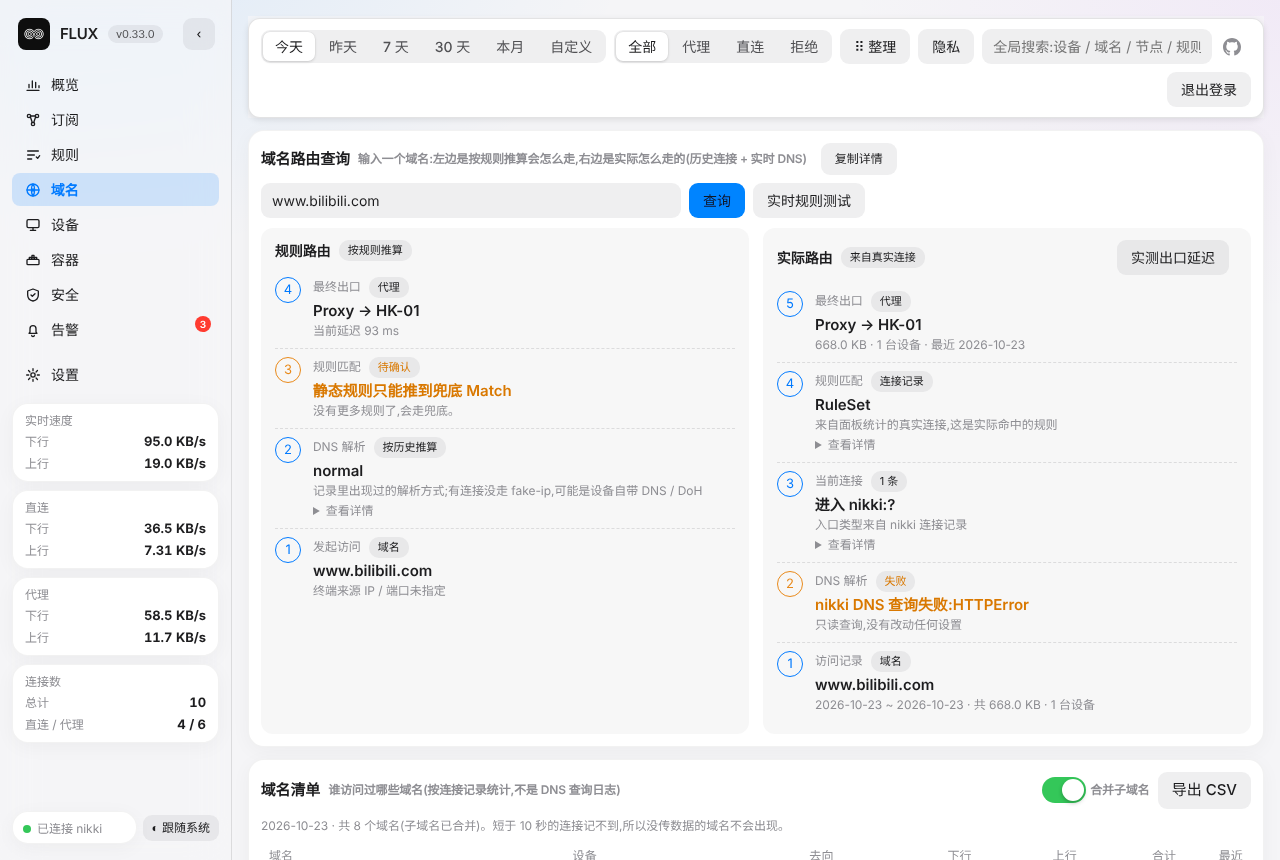
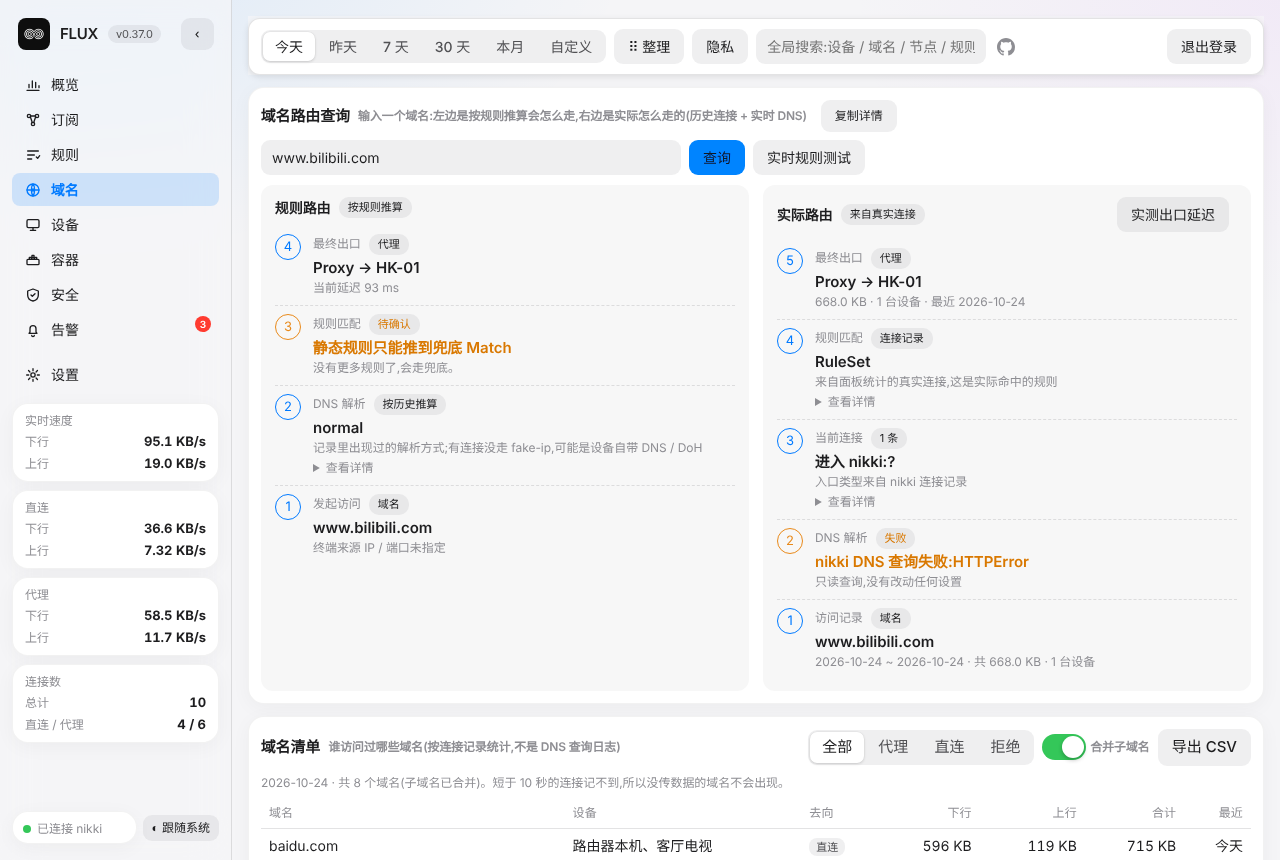
docs: README/FEATURES for v0.37 (security tabs, 状态 toggle, log clustering) and refreshed screenshots
Claude-Session: https://claude.ai/code/session_01GtGpDSTma1sKiSfQkHSTpF

diff --git a/tests/docshots.py b/tests/docshots.py
@@ -45,8 +45,10 @@ try:
             go("devices"); pg.screenshot(path=f"{OUT}/devices.png")
             go("rules"); pg.fill("#rtIn", "www.baidu.com"); pg.click("#rtGo"); pg.wait_for_timeout(3500); pg.screenshot(path=f"{OUT}/rules.png")
             go("domains"); pg.fill("#lkpIn", "www.bilibili.com"); pg.click("#lkpGo"); pg.wait_for_timeout(3500); pg.screenshot(path=f"{OUT}/lookup.png")
-            go("security"); pg.wait_for_timeout(2500); pg.screenshot(path=f"{OUT}/security.png")
-            pg.evaluate("window.scrollTo(0, 1500)"); pg.wait_for_timeout(1500); pg.screenshot(path=f"{OUT}/analysis.png")
+            go("security"); pg.wait_for_timeout(2500); pg.evaluate("secTab('ov',true)"); pg.wait_for_timeout(500); pg.screenshot(path=f"{OUT}/security.png")
+            pg.evaluate("secTab('dns',true)"); pg.wait_for_timeout(800); pg.screenshot(path=f"{OUT}/security-dns.png")
+            pg.evaluate("secTab('diag',true)"); pg.wait_for_timeout(800); pg.screenshot(path=f"{OUT}/analysis.png")
+            pg.evaluate("secTab('ov',true)")
             go("alerts"); pg.screenshot(path=f"{OUT}/alerts.png")
             go("docker"); pg.screenshot(path=f"{OUT}/docker.png")
             pg.evaluate("openSettings('look')"); pg.wait_for_timeout(3000); pg.screenshot(path=f"{OUT}/settings.png")

diff --git a/README.md b/README.md
@@ -25,9 +25,13 @@
 |---|---|
 | ![规则](docs/img/rules.png) | ![域名查询](docs/img/lookup.png) |
 
-| 安全(DNS 过滤 / 分流检查 / 需要关注) | 周对比 / 故障时间线 / Wi-Fi 事件 |
+| 安全 · 概览(指标 / 待处理事项) | 安全 · DNS 与过滤 |
 |---|---|
-| ![安全](docs/img/security.png) | ![分析](docs/img/analysis.png) |
+| ![安全](docs/img/security.png) | ![DNS 与过滤](docs/img/security-dns.png) |
+
+| 安全 · 排查(周对比 / 故障时间线 / Wi-Fi 事件) | |
+|---|---|
+| ![排查](docs/img/analysis.png) | |
 
 | 告警 | Docker 容器 |
 |---|---|
@@ -51,7 +55,7 @@
 | 域名 | 谁访问了什么、走直连还是代理;**域名查询**:规则链、DNS、AdGuard 过滤结果、历史记录、当前连接 |
 | 设备 | 每台设备的流量、访问的域名、用到的节点;可起名、分组、设白名单,新设备入网 / 离线提醒 |
 | 容器 | Docker 容器列表、资源占用、日志;可选启动 / 停止 / 重启 |
-| 安全 | AdGuard Home 的 DNS 过滤统计、分流检查(国内站点误走代理等)、需要关注的清单、周对比、故障时间线、Wi-Fi 事件 |
+| 安全 | 四个页签:**概览**(指标、待处理事项、自检)/ **DNS 与过滤**(AdGuard Home、dnsmasq、分流检查)/ **排查**(故障时间线、Wi-Fi 事件、周对比)/ **回看**(活跃热力图、目的地国家、周报) |
 | 告警 | 新设备、节点故障、流量突增、套餐、磁盘、宽带丢包、UPS、容器停止、路由器日志严重错误等,可推送到 Bark / Telegram / 企业微信 / 飞书 / ntfy / Webhook,支持「忽略」和静默时段 |
 | 设置 | 外观、连接、告警与推送、备份与恢复、诊断包、可选功能开关 |
 
@@ -77,15 +81,16 @@ docker compose up -d
 
 ## 使用
 
-- **顶部筛选**:「状态」(显示全部卡片)和时间范围在顶部;「全部 / 代理 / 直连 / 拒绝」去向筛选在各自的卡片上(流量趋势、设备与访问目标的时段榜、应用分布、域名清单、设备页),每张卡片单独选,互不影响;点任何一行都能继续钻取
+- **顶部筛选**:「状态」是开关,点一下隐藏路由器状态 / 内存 / 实时速度等全局卡片(页面太长时收起),再点恢复;时间范围在它旁边;「全部 / 代理 / 直连 / 拒绝」去向筛选在各自的卡片上(流量趋势、设备与访问目标的时段榜、应用分布、域名清单、设备页),每张卡片单独选,互不影响;点任何一行都能继续钻取
 - **整理布局**:点「⠿ 整理」拖动卡片和左侧小卡(电脑端,Esc 退出),位置随外观设置保存
 - **查一个域名**:「域名」页输入域名,看规则链、真实 DNS、AdGuard 过滤、历史访问
 - **实时测试规则**:「规则」页输入域名点「实时测试」,面板经 nikki 的 mixed 端口发一次 CONNECT(不传数据),从连接列表读出命中的规则和出口。需要 nikki 开了 mixed-port;如果 nikki 的代理端口设了账号密码,到 **设置 → GeoIP 数据库 → 下载代理** 填 `http://用户:密码@127.0.0.1:端口`(只存在你自己的 data 目录),实时测试会复用它
 - **时间范围**:安全页顶部可选 24 小时 / 3 天 / 7 天 / 30 天或自定义起止时间,分流检查、目的地、故障时间线、无线事件、AdGuard 被拦截列表都会跟着变;长列表自动分页,点一行看明细
 - **复制详情(少截图)**:安全页、域名查询、规则实时测试、应用分布、告警、节点等卡片右上角有「复制详情」,设备 / 节点 / 域名详情弹窗和各类明细弹窗里也有;分页表有「复制本表」(复制全部行,不止当前页)。直接把文字贴给别人或 AI 即可
 - **未识别应用**:概览「应用分布」里点开「未识别」→「导出未识别明细」,得到一段写好说明的文字(只有域名和流量),发给 AI 让它按 `域名关键字=应用名|类别` 回复,把回复存成 .txt,到 **设置 → 应用特征库 → 导入规则文件** 导入,检查后保存即可。应用行、设备行都能点开看域名明细
+- **路由器日志归并**:设置 → 路由器系统日志 切到「按内容归并」,把数字 / MAC / IP 不同、句式相同的日志合成一类并统计次数,几百条内核错误一眼看出是哪几类
 - **关掉又想恢复提醒**:告警里点「不再提醒这类」/「忽略这块盘」后,告警页顶部会列出已关闭的提醒,点「恢复提醒」即可(也可在 设置 → 告警通知 里改)
-- **待处理事项**:安全页底部的清单,点进去处理后,顶部有「返回安全」按钮
+- **待处理事项**:安全页「概览」页签里的清单,点进去处理后,顶部有「返回安全」按钮;安全页会记住你上次停留的页签
 - **nikki 面板链接**:订阅告警里的「在 nikki 里更新订阅 ↗」默认用你访问 FLUX 时的主机名;不是同一个地址时,在 **设置 → 连接** 里填主机名、控制端口、路径
 - **查看者账号**:可设只读账号,外观(主题、卡片显示和顺序)自动和管理员保持一致,看不到设置页、配置地址和各种密钥,不能做实时测试等主动操作
 

diff --git a/docs/FEATURES.md b/docs/FEATURES.md
@@ -16,10 +16,10 @@
 - 流量堆叠趋势:按小时的堆叠面积图,可按 设备 / 节点 / 去向 / 应用 / 类别 / 协议 堆叠,悬停看每个系列的值,标出峰值
 - 网络质量 QoE:节点延迟 / 抖动 / 超时率(来自 nikki 测速)、路由器 TCP 重传率(内核全局计数)、出口隧道协议分布;不提供应用层丢包率和分设备 RTT(数据拿不到)
 - 访问密码 / 隐私模式:「设置 → 安全与隐私」可设置登录密码(加盐哈希,输错 5 次锁 1 分钟),也可用环境变量 PANEL_PASSWORD;隐私模式把域名 / 目标 IP 模糊显示,悬停才显示
-- 视图预设:概览顶部一键切换 全部 / 总览 / 排障 / 安全 四组卡片;顶部筛选条的标签可逐个取消,也可「清除全部」
+- 「状态」开关:概览顶部的「状态」按钮一键隐藏 / 显示路由器状态、内存、实时速度等全局卡片;「全部 / 代理 / 直连 / 拒绝」去向筛选放在各卡片自己上(趋势、设备 / 访问目标时段榜、应用分布、策略组、规则等)
 - 告警与推送:内置 6 类规则(新设备入网、流量突增、节点故障/恢复、TCP 重传率偏高、连接数异常、nikki 失联),触发后记录在「告警」页签和概览「最近告警」卡片,并可推送到 Bark / Telegram / 企业微信 / 飞书 / ntfy / 通用 Webhook;支持静默时段、同一对象的冷却间隔;流量突增按「设备 × 钟点」的历史均值做基线(样本不够时用近 24 小时中位数)。推送密钥只存在 data 目录的数据库里,页面不回显。环境变量 ALERT_EVAL_SEC(检查间隔,默认 30)、ALERT_LEARN_SEC(新设备学习期,默认 900)
 - 安全页(v0.11):接入 AdGuard Home(只读,账号密码在「设置 → DNS」里填,只存 data 目录)看 DNS 查询 / 拦截统计和最近被拦截的查询;分流检查(国内站点走了代理 / 境外站点直连 / 走代理却本地解析,启发式);目的地国家 / ASN(需要 GeoIP 库,可在「设置 → 目的地数据库」一键下载(GitHub 上的 GeoLite2 镜像,失败再试 DB-IP Lite;路由器直连不通时可在同一页设置 HTTP 下载代理));活跃时段热力图;数据质量自检
-- 安全页顶部有指标卡和「需要关注」清单(采集、告警、节点、DNS、分流、兜底规则、套餐、面板保护),点一项直达对应页面
+- 安全页(v0.37)分成 概览 / DNS 与过滤 / 排查 / 回看 四个页签,时间范围在顶部对全部页签生效;「概览」里有指标卡和「需要关注」清单(采集、告警、节点、DNS、分流、兜底规则、套餐、面板保护),点一项直达对应页面
 - 规则健康(规则策略页):从未命中的规则、流量最多的规则、落到兜底 Match 的占比
 - 机场套餐:设置月流量和重置日,估算用量、预计用完日,到阈值触发告警;周报:汇总 7 天并可每周自动推送
 - Prometheus:`/metrics` 文本指标;环境变量 `METRICS_TOKEN` 可让 Prometheus 用口令抓取(`Authorization: Bearer` 或 `?t=`)
